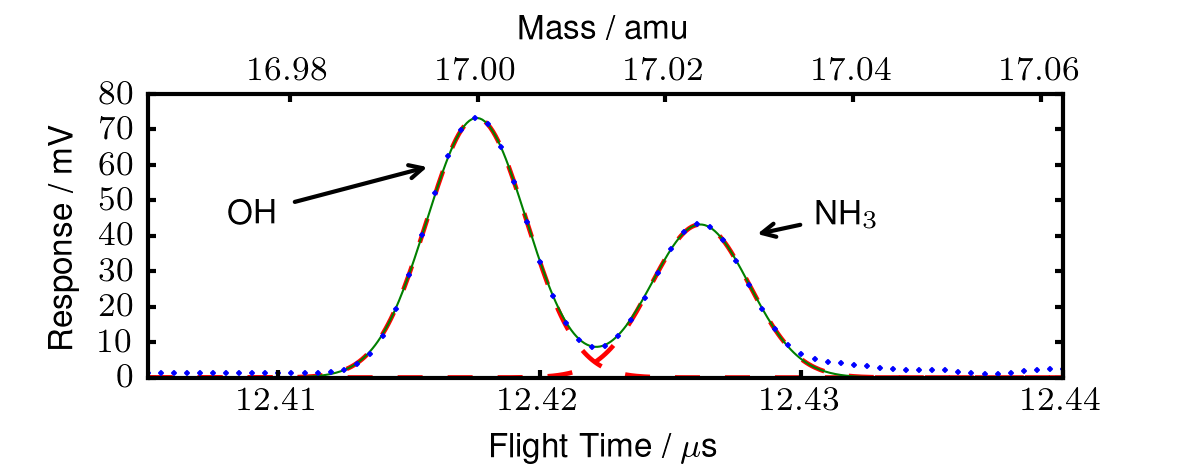
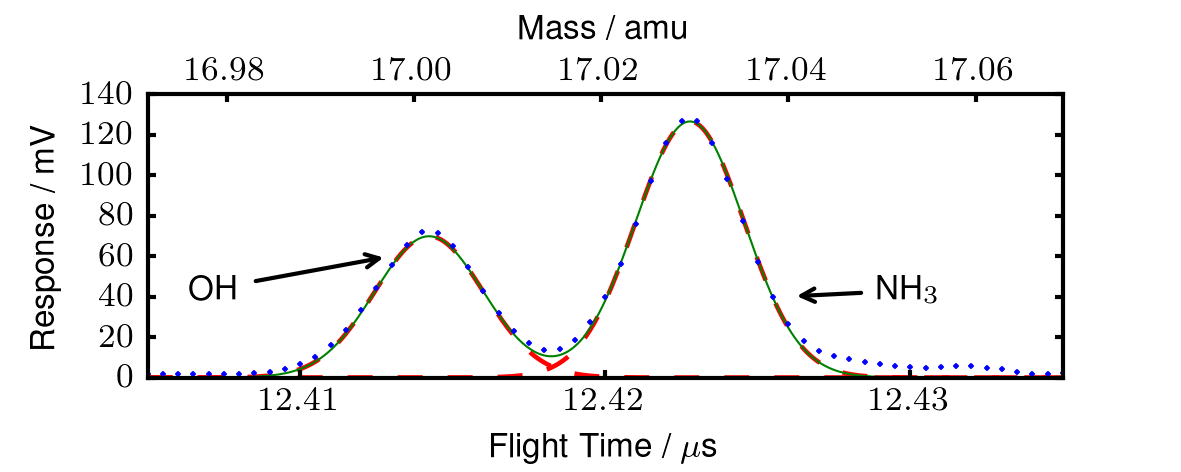
Started to update the figures for the thin-film sample

diff --git a/python_figures/ammonia_reactivity.py b/python_figures/ammonia_reactivity.py
@@ -33,7 +33,7 @@ for i in range(0,len(config.temperatures)):
 treated_data = {}
 #Prepare the list that will hold the (temp,intensity) values
 for mass in config.masses:
-    treated_data[mass[0]] = np.zeros((len(config.temperatures),2))
+    treated_data[mass[0]] = np.zeros((len(config.temperatures),3))
 
 
 pp = PdfPages('multipage.pdf')
@@ -63,27 +63,28 @@ for j in range(0,len(config.temperatures)):
         errfunc = lambda p, x, y: fitfunc(p, x) - y # Distance to the target function
         p0 = [50,0.00001,0] # Initial guess for the parameters
         p1, success = optimize.leastsq(errfunc, p0[:], args=(x_values, y_values),maxfev=1000)        
-
+        
         if (success > 4) or p1[1]>0.01:
             p0 = [5,0.00001,0]
             p1, success = optimize.leastsq(errfunc, p0[:], args=(x_values[2:5], y_values[2:5]))
-       
+        
         if success > 4 or p1[1]>0.01 or p1[1]<0:
             print "p1:" + str(p1[0]) + " p1:" + str(p1[1]) + " p2:" + str(p1[2]) + " j: " + str(j)
             p1[1] = 0
 
-        axis.plot(X_values,Y_values,'b-')
-        axis.plot([Data[start,0],Data[start,0]],[0,max(y_values)],'k-')
-        axis.plot([Data[end,0],Data[end,0]],[0,max(y_values)],'k-')
+        #axis.plot(X_values,Y_values,'b-')
+        #axis.plot([Data[start,0],Data[start,0]],[0,max(y_values)],'k-')
+        #axis.plot([Data[end,0],Data[end,0]],[0,max(y_values)],'k-')
 
-        axis.plot(X_values,fitfunc(p1, X_values),'r-')
-        axis.tick_params(direction='in', length=2, width=1, colors='k',labelsize=8,axis='both',pad=5)
-        axis.annotate(mass[0], xy=(.05,.85), xycoords='axes fraction',fontsize=8)
-        axis.set_xticks(())
+        #axis.plot(X_values,fitfunc(p1, X_values),'r-')
+        #axis.tick_params(direction='in', length=2, width=1, colors='k',labelsize=8,axis='both',pad=5)
+        #axis.annotate(mass[0], xy=(.05,.85), xycoords='axes fraction',fontsize=8)
+        #axis.set_xticks(())
         
         charge = 0
         treated_data[mass[0]][j][0] = config.temperatures[j]
         treated_data[mass[0]][j][1] = math.sqrt(math.pi)*p1[0] * math.sqrt(p1[1])
+        treated_data[mass[0]][j][2] = config.times[j] / 60.0
     #plt.savefig(pp, format='pdf')
     plt.close()
 pp.close()
@@ -102,28 +103,28 @@ fig.set_size_inches(fig_width,fig_height)
 axis = fig.add_subplot(1,1,1)
 i = 0
 for mass in config.masses:    
-    axis.plot(treated_data[mass[0]][:,1], colors[i],label=mass[0],markersize=0.75)
+    axis.plot(treated_data[mass[0]][:,2],treated_data[mass[0]][:,1], colors[i],label=mass[0],markersize=0.75)
     i = i + 1
 
-axis.set_xlabel('Measurement number', fontsize=8)
+axis.set_xlabel('Time / min', fontsize=8)
 axis.set_ylabel('Response / mV$\cdot$s', fontsize=8)
 
 
-axis.set_yticks((0.5,1,1.5,2,2.5))
+axis.set_yticks((0.5,1,1.5,2,2.5,3,3.5))
 
 arrow = dict(facecolor='black',arrowstyle='->')
 font = 8
-axis.annotate('H$_2$O', xy=(25, 2.3),  xycoords='data', xytext=(28, 2.8), textcoords='data', arrowprops=arrow, horizontalalignment='right', verticalalignment='top',fontsize=font,)
-axis.annotate('N$_2$', xy=(20, 1.5),  xycoords='data', xytext=(17, 2), textcoords='data', arrowprops=arrow, horizontalalignment='right', verticalalignment='top',fontsize=font,)
-axis.annotate('NH$_3$', xy=(14, 0.7),  xycoords='data', xytext=(18, 1.2), textcoords='data', arrowprops=arrow, horizontalalignment='right', verticalalignment='top',fontsize=font,)
-axis.annotate('OH', xy=(24, 0.4),  xycoords='data', xytext=(23, 0.9), textcoords='data', arrowprops=arrow, horizontalalignment='right', verticalalignment='top',fontsize=font,)
-axis.annotate('O$_2$', xy=(2, 0.5),  xycoords='data', xytext=(3, 1.5), textcoords='data', arrowprops=arrow, horizontalalignment='right', verticalalignment='top',fontsize=font,)
-axis.annotate('Temp', xy=(13, 2.1),  xycoords='data', xytext=(8, 2.6), textcoords='data', arrowprops=arrow, horizontalalignment='right', verticalalignment='top',fontsize=font,)
+axis.annotate('H$_2$O', xy=(165, 2.3),  xycoords='data', xytext=(220, 2.8), textcoords='data', arrowprops=arrow, horizontalalignment='right', verticalalignment='top',fontsize=font,)
+axis.annotate('N$_2$', xy=(205, 1.5),  xycoords='data', xytext=(190, 2.1), textcoords='data', arrowprops=arrow, horizontalalignment='right', verticalalignment='top',fontsize=font,)
+axis.annotate('NH$_3$', xy=(50, 2.45),  xycoords='data', xytext=(55, 3), textcoords='data', arrowprops=arrow, horizontalalignment='right', verticalalignment='top',fontsize=font,)
+axis.annotate('OH', xy=(105, 0.16),  xycoords='data', xytext=(145, 0.4), textcoords='data', arrowprops=arrow, horizontalalignment='right', verticalalignment='top',fontsize=font,)
+axis.annotate('O$_2$', xy=(105, 1.0),  xycoords='data', xytext=(95, 1.55), textcoords='data', arrowprops=arrow, horizontalalignment='right', verticalalignment='top',fontsize=font,)
+axis.annotate('Temp', xy=(150, 3.1),  xycoords='data', xytext=(140, 3.6), textcoords='data', arrowprops=arrow, horizontalalignment='right', verticalalignment='top',fontsize=font,)
 
 axis2 = axis.twinx()
-axis2.plot(treated_data[mass[0]][:,0], 'k-',label='Temperature')
+axis2.plot(treated_data[mass[0]][:,2],treated_data[mass[0]][:,0], 'k-',label='Temperature')
 axis2.set_ylabel('Temperature / C', fontsize=8)
-axis2.set_yticks((110,130,150,170))
+axis2.set_yticks((110,130,150,170,190,210))
 
 axis.tick_params(direction='in', length=6, width=1, colors='k',labelsize=8,axis='both',pad=3)
 axis2.tick_params(direction='in', length=6, width=1, colors='k',labelsize=8,axis='both',pad=3)

diff --git a/python_figures/tof_raw.py b/python_figures/tof_raw.py
@@ -16,19 +16,19 @@ except:
 
 cursor = db.cursor()
 
-#SOMETHING WRONG WITH THE X-SCALE!!!!
+#Mass of NH3: 17.0265491
+#Mass of OH: 17.0027397
 
-#Mass of methanol: 32.0262147
-#Mass of oxygen: 31.9898292
+#Correct this expression to spectrum 403
 def MassToTime(mass):
-    time = 2.9870925856 * (mass**0.497621653202)
-    corr_time = time + 0.207
-    return corr_time
+    time = 2.98660484819 * (mass**0.4977024241071)
+    corr_time = time + 0.153
+    return corr_time 
 
 
 data = {}
 #Methanol + oxygen
-cursor.execute("SELECT x*1000000,y*1000 FROM xy_values_tof where measurement = 170")
+cursor.execute("SELECT x*1000000,y*1000 FROM xy_values_tof where measurement = 427")
 data['ch'] = np.array(cursor.fetchall())
 
 axis_array = []
@@ -61,20 +61,18 @@ mass_ticks = np.array([1,5,10,15,20,25,30,35,40])
 axis3 = axis.twiny()
 #axis3.plot(data['ch'][:,0],data['ch'][:,0]*0,'w-',linewidth=0) #Hack to create an invisible set on the extra x-axis
 axis3.set_xlim(0,20)
-print MassToTime(32.0262147)
+print MassToTime(2*1.0078250320)
 axis3.set_xticks(MassToTime(mass_ticks))
 axis3.set_xticklabels(mass_ticks)
 axis3.set_xlabel('Mass / amu', fontsize=8)
 axis3.tick_params(direction='in', length=2, width=1, colors='k',labelsize=8,axis='both',pad=3)
 #axis3.ticklabel_format(useOffset=False)
 
-axis.set_ylim(0,20)
-axis3.set_ylim(0,20)
-
+axis.set_ylim(0,150)
 
 p = axis.axvspan(0, 1, facecolor='#26aaf7', alpha=0.25)
-p = axis.axvspan(12, 13, facecolor='#b6fa77', alpha=0.25)
-p = axis.axvspan(16.9, 17, facecolor='#4599a7', alpha=0.25)
+p = axis.axvspan(12.4, 12.45, facecolor='#b6fa77', alpha=0.25)
+p = axis.axvspan(15.75, 17.1, facecolor='#25dd37', alpha=0.25)
 
 axis.tick_params(direction='in', length=6, width=1, colors='k',labelsize=8,axis='both',pad=3)
 axis.set_ylabel('Response / mV', fontsize=8)
@@ -89,39 +87,39 @@ axis.set_yticks((0,10,20,30,40))
 axis.plot(data['ch'][:,0], data['ch'][:,1], 'r-',linewidth=LINEWIDTH)
 p = axis.axvspan(0, 1, facecolor='#26aaf7', alpha=0.25)
 axis.set_xlim(0,1)
-axis.set_ylim(0,40)
+axis.set_ylim(0,150)
 axis.set_xticks([0.2,0.4,0.6,0.8])
 axis.tick_params(direction='in', length=6, width=1, colors='k',labelsize=8,axis='both',pad=3)
 
 
 axis = plt.subplot(gs[1,1])
 axis.set_ylabel('')
-axis.set_yticks((0,1,2,3,4))
+axis.set_yticks((25,50,75,100,125))
 #axis.set_xticks((12,12.5))
 axis.plot(data['ch'][:,0], data['ch'][:,1], 'r-',linewidth=LINEWIDTH)
-axis.set_xlim(12,13)
-axis.set_ylim(0,4)
-axis.set_xticks([12.2,12.4,12.6,12.8])
+axis.set_xlim(12.4,12.45)
+axis.set_ylim(0,150)
+axis.set_xticks([12.4,12.425,12.45])
 axis.set_xlabel('Flight Time / $\mu$s', fontsize=8)
-p = axis.axvspan(11.45, 13, facecolor='#b6fa77', alpha=0.25)
+axis.ticklabel_format(useOffset=False)
+p = axis.axvspan(12.4, 12.45, facecolor='#b6fa77', alpha=0.25)
 axis.tick_params(direction='in', length=6, width=1, colors='k',labelsize=8,axis='both',pad=3)
-axis.annotate('H$_2$O', xy=(12.75, 2.3),  xycoords='data', xytext=(12.65, 3.3), textcoords='data', arrowprops=arrow, horizontalalignment='right', verticalalignment='top',fontsize=font,)
-axis.annotate('OH', xy=(12.4, 1),  xycoords='data', xytext=(12.7, 1.8), textcoords='data', arrowprops=arrow, horizontalalignment='right', verticalalignment='top',fontsize=font,)
-axis.annotate('O', xy=(12.05, 0.9),  xycoords='data', xytext=(12.26, 1.4), textcoords='data', arrowprops=arrow, horizontalalignment='right', verticalalignment='top',fontsize=font,)
+axis.annotate('OH', xy=(12.4144, 50),  xycoords='data', xytext=(12.42, 60), textcoords='data', arrowprops=arrow, horizontalalignment='right', verticalalignment='top',fontsize=font,)
+axis.annotate('NH$_3$', xy=(12.43, 70),  xycoords='data', xytext=(12.43, 80), textcoords='data', arrowprops=arrow, horizontalalignment='right', verticalalignment='top',fontsize=font,)
 
 
 axis = plt.subplot(gs[1,2])
 axis.set_ylabel('')
-axis.set_yticks((0,1,2,3,4))
-axis.set_xticks((16.95,16.97,16.99))
+axis.set_yticks((25,50,75,100,125))
+axis.set_xticks((15.75,16,17))
 axis.plot(data['ch'][:,0], data['ch'][:,1], 'r-',linewidth=LINEWIDTH)
-p = axis.axvspan(16.94, 17, facecolor='#4599a7', alpha=0.25)
-axis.set_xlim(16.94,17)
-axis.set_ylim(0,4)
+p = axis.axvspan(15.75, 17.1, facecolor='#25dd37', alpha=0.25)
+axis.set_xlim(15.75,17.1)
+axis.set_ylim(0,150)
 axis.tick_params(direction='in', length=6, width=1, colors='k',labelsize=8,axis='both',pad=3)
 axis.ticklabel_format(useOffset=False)
-axis.annotate('O$_2$', xy=(16.963, 2),  xycoords='data', xytext=(16.95, 3), textcoords='data', arrowprops=arrow, horizontalalignment='right', verticalalignment='top',fontsize=font,)
-axis.annotate('CH$_3$OH', xy=(16.977, 1.2),  xycoords='data', xytext=(16.995, 2.4), textcoords='data', arrowprops=arrow, horizontalalignment='right', verticalalignment='top',fontsize=font,)
+axis.annotate('O$_2$', xy=(16.963, 20),  xycoords='data', xytext=(16.95, 30), textcoords='data', arrowprops=arrow, horizontalalignment='right', verticalalignment='top',fontsize=font,)
+axis.annotate('N$_2$', xy=(15.882, 10),  xycoords='data', xytext=(16, 20), textcoords='data', arrowprops=arrow, horizontalalignment='right', verticalalignment='top',fontsize=font,)
 
 
 

diff --git a/python_figures/ammonia_OH_gauss_fit.py b/python_figures/ammonia_OH_gauss_fit.py
@@ -9,9 +9,8 @@ import MySQLdb
 import sys
 
 def TimeToMass(time):
-    #time = 2.97277909899 * mass^0.499352719883
-    corr_time = time - 0.183  #Approximate delay
-    mass = (corr_time / 2.97277909899)**(1.0/0.499352719883)
+    corr_time = time - 0.181  #Approximate delay
+    mass = (corr_time / 2.98660484819)**(1.0/0.4977024241071)
     return mass
 
 matplotlib.rc('text',usetex=True) # Magic fix for the font warnings
@@ -36,12 +35,13 @@ fig.set_size_inches(fig_width,fig_height)
 
 #Relevant time, OH: 12.418, NH3: 12.427
 data = {}
-cursor.execute("SELECT x*1000000,y*1000 FROM xy_values_tof where measurement = 245")
+#cursor.execute("SELECT x*1000000,y*1000 FROM xy_values_tof where measurement = 245")
+cursor.execute("SELECT x*1000000,y*1000 FROM xy_values_tof where measurement = 427")
 Data = np.array(cursor.fetchall())
 
 masses = []
-masses.append(['OH',12.418,6])
-masses.append(['NH3',12.427,6])
+masses.append(['OH',12.413,6])
+masses.append(['NH3',12.424,6])
 
 fit = []
 
@@ -91,15 +91,15 @@ axis.tick_params(direction='in', length=2, width=1, colors='k',labelsize=8,axis=
 axis.set_yticks((20,40,60))    
 axis.set_xticks((12.41,12.42,12.43,12.44))    
 axis.ticklabel_format(useOffset=False)
-axis.set_xlim(12.405,12.44)
+axis.set_xlim(12.405,12.435)
 axis.set_ylabel('Response / mV', fontsize=8)
 axis.set_xlabel('Flight Time / $\mu$s', fontsize=8)
 
 
 arrow = dict(facecolor='black',arrowstyle='->')
 font = 8
-axis.annotate('OH', xy=(12.416, 60),  xycoords='data', xytext=(12.41, 50), textcoords='data', arrowprops=arrow, horizontalalignment='right', verticalalignment='top',fontsize=font,)
-axis.annotate('NH$_3$', xy=(12.428, 40),  xycoords='data', xytext=(12.433, 50), textcoords='data', arrowprops=arrow, horizontalalignment='right', verticalalignment='top',fontsize=font,)
+axis.annotate('OH', xy=(12.413, 60),  xycoords='data', xytext=(12.408, 50), textcoords='data', arrowprops=arrow, horizontalalignment='right', verticalalignment='top',fontsize=font,)
+axis.annotate('NH$_3$', xy=(12.426, 40),  xycoords='data', xytext=(12.431, 50), textcoords='data', arrowprops=arrow, horizontalalignment='right', verticalalignment='top',fontsize=font,)
 
 
 

diff --git a/python_figures/thin_film_config.py b/python_figures/thin_film_config.py
@@ -1,33 +1,36 @@
+import MySQLdb
+
+try:
+    db = MySQLdb.connect(host="servcinf", user="cinf_reader",passwd = "cinf_reader", db = "cinfdata")
+except:
+    db = MySQLdb.connect(host="127.0.0.1", port=9995, user="cinf_reader",passwd = "cinf_reader", db = "cinfdata")
+
+cursor = db.cursor()
+
+initial_db = 403
+number_of_spectrums = 57
+
+times = []
 temperatures = []
+init_time = 0
+for i in range(initial_db,initial_db+number_of_spectrums):
+    cursor.execute("select sample_temperature, unix_timestamp(time) from measurements_tof where id = " + str(i))
+    fetch = (cursor.fetchall())
+    temperatures = temperatures + [fetch[0][0]]
+    if init_time == 0:
+        init_time = fetch[0][1]
+        times = times + [0]
+    else:
+        times = times + [fetch[0][1]-init_time]
 
-"""
-temperatures = temperatures + [40,60,80]
-
-for i in range(100,195,5): #Note last value is not included
-    temperatures = temperatures + [i]
-
-for i in range(180,105,-5): #Note last value is not included
-    temperatures = temperatures + [i]
-
-print len(temperatures)
-"""
-
-for i in range(100,185,5): #Note last value is not included
-    temperatures = temperatures + [i]
-
-temperatures = temperatures + [190]
-
-for i in range(180,95,-5): #Note last value is not included
-    temperatures = temperatures + [i]
-
-initial_db = 189+38
 
 masses = []
 #masses.append(['H2',4.387,8])
-masses.append(['OH',12.418,6])
-masses.append(['NH3',12.427,6])
-masses.append(['H2O',12.777,8])
-masses.append(['N2',15.89,8])
-masses.append(['O2',16.972,8])
-#masses.append(['N2O',19.874,10])
+masses.append(['OH',12.413,5])
+masses.append(['NH3',12.424,6])
+masses.append(['H2O',12.770,8])
+masses.append(['N2',15.8818,8])
+#masses.append(['NO',16.438,10])
+masses.append(['O2',16.967,8])
+#masses.append(['N2O',19.8699,10])
 
